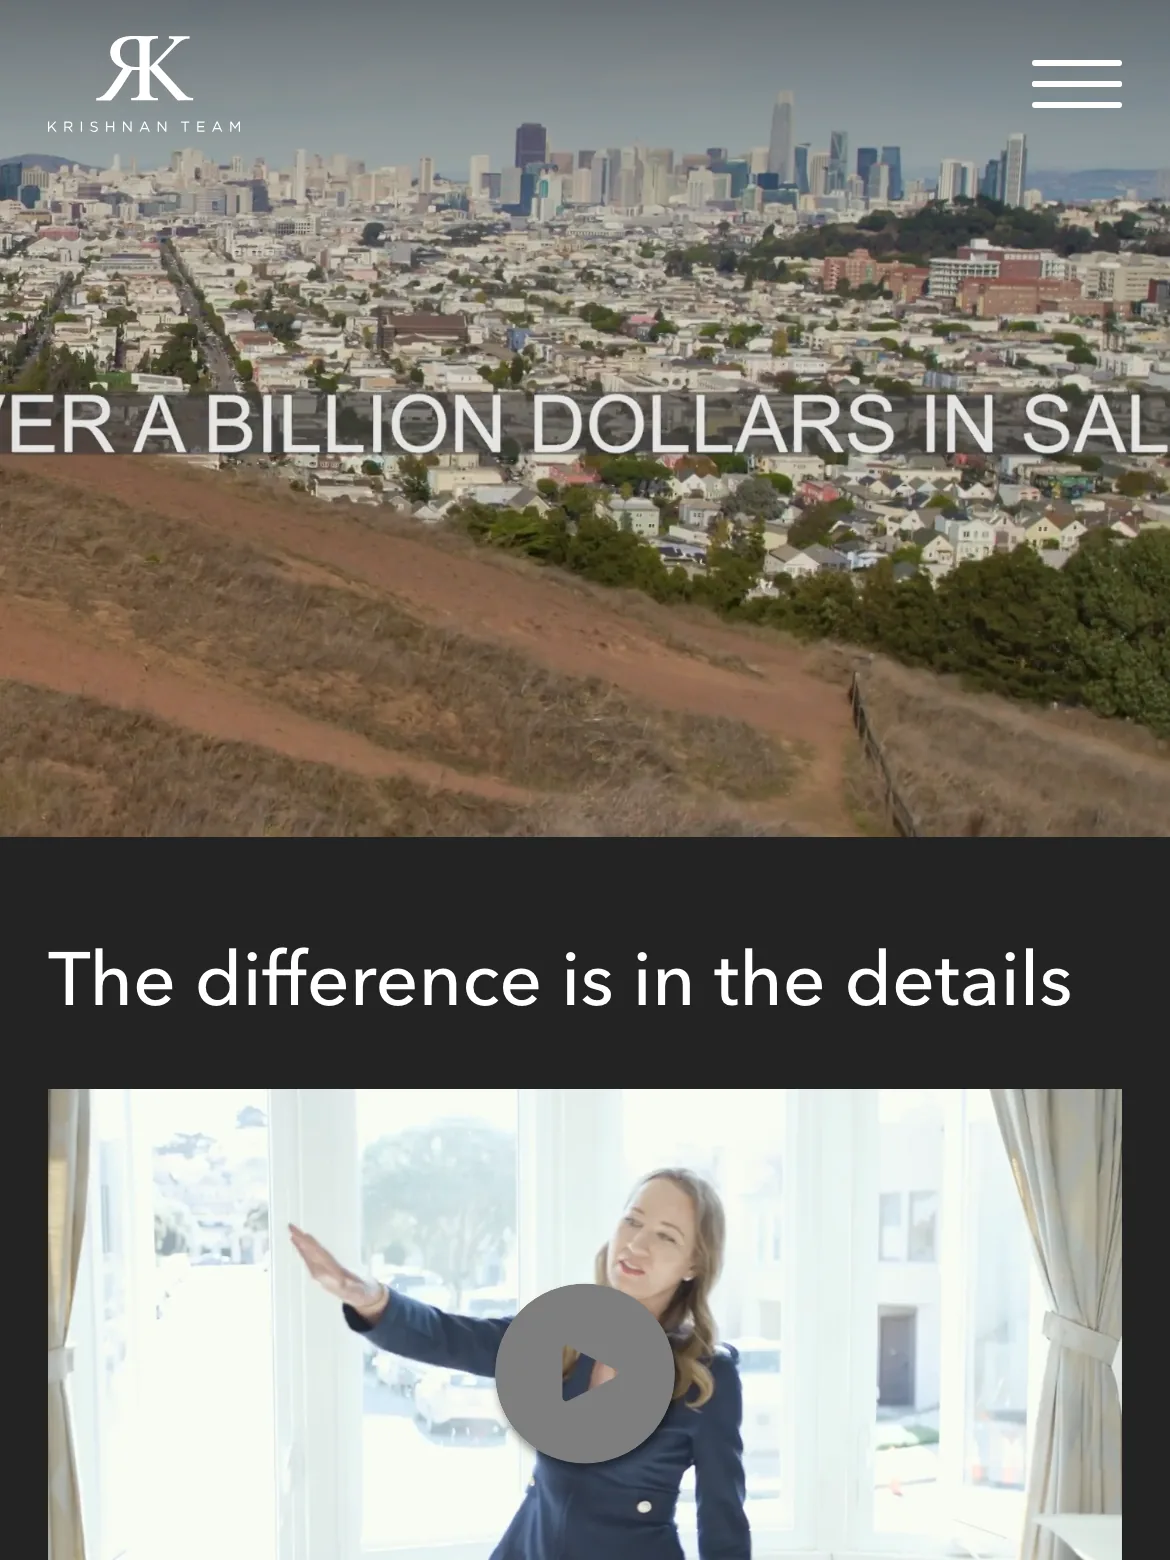
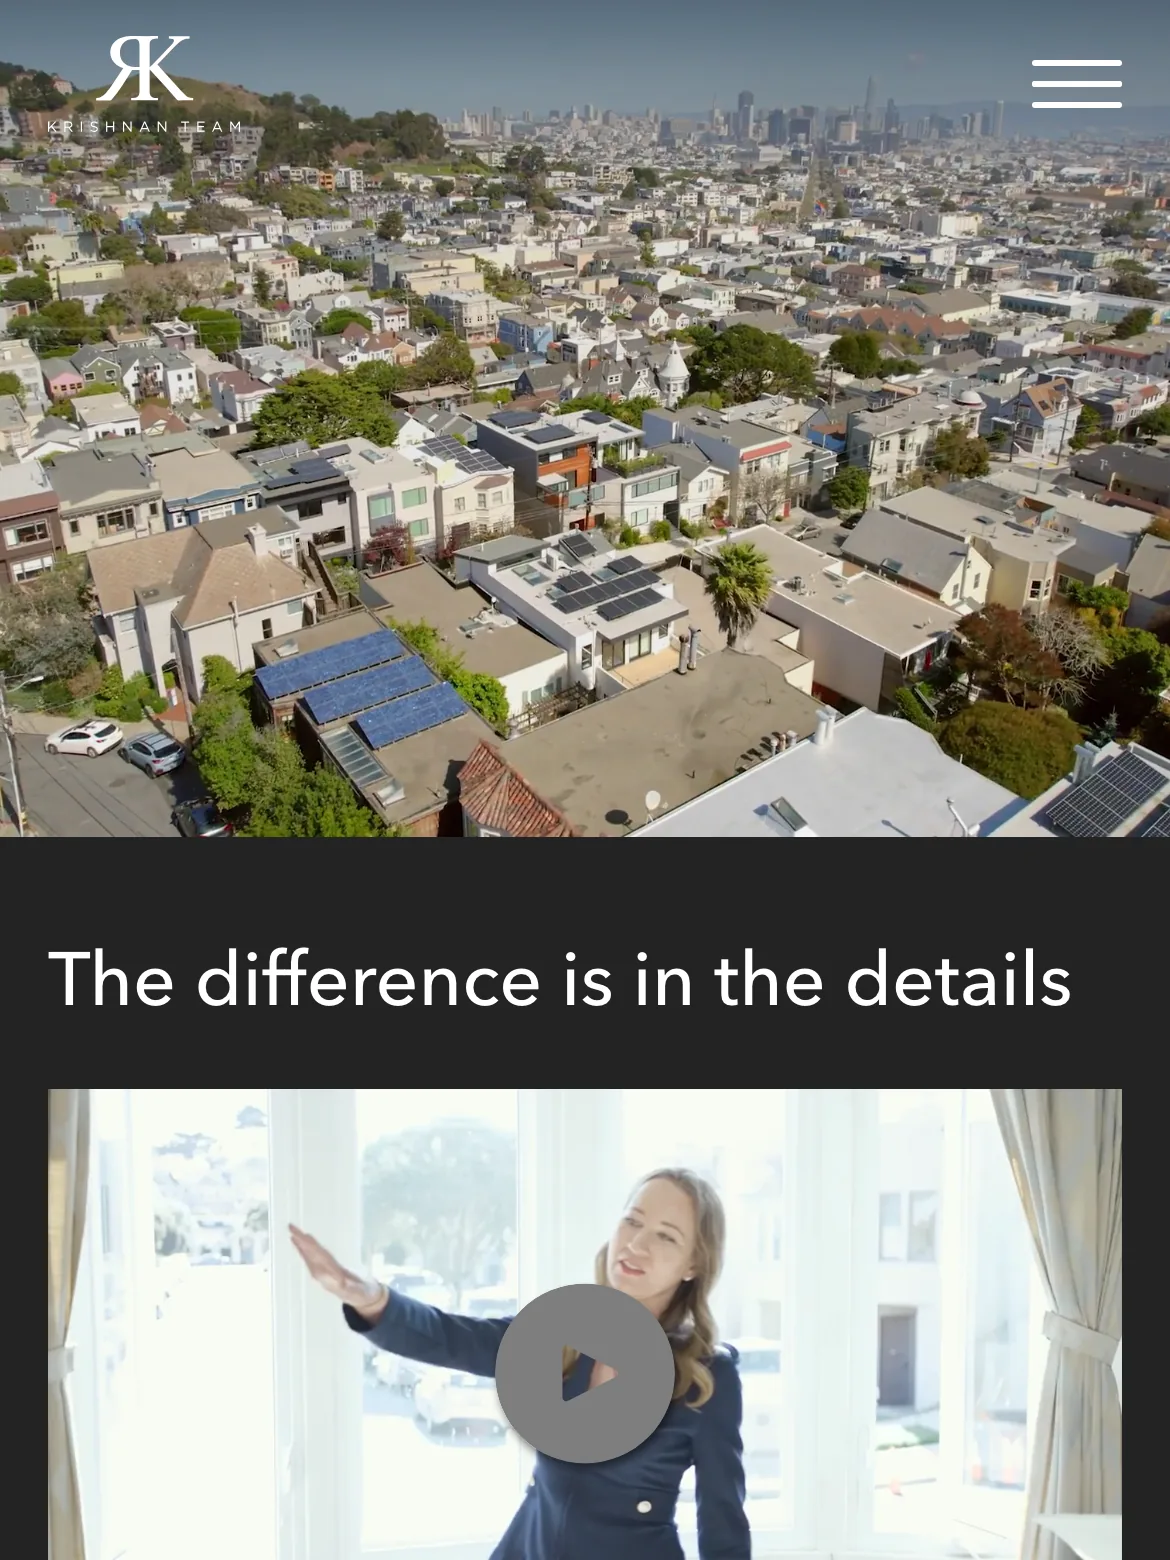
Fix ruthkrishnan capture; record video-hero gotchas in spec
The first capture caught the site's 88s background-video hero mid-way
through an oversized overlay the site clips at both edges, which read
as a broken screenshot. Replaced with a clean frame selected from six
candidates.

Records two findings: pausing a background video makes Chromium draw
native controls over the hero, and only consent banners are ever
hidden for capture -- never a site's own content.

Claude-Session: https://claude.ai/code/session_01KBKU5UZRrbw8YnrSuYRsB3

diff --git a/docs/superpowers/specs/2026-08-25-private-realtor-roadmap-design.md b/docs/superpowers/specs/2026-08-25-private-realtor-roadmap-design.md
@@ -242,15 +242,31 @@ All four sites were loaded and captured before this spec was finalised, so §4,
   consent was given on anyone's behalf.
 - Both Luxury Presence sites carry third-party accessibility overlay widgets and
   floating call/email buttons.
+- **`ruthkrishnan.com` opens on an 88-second background video**, not a static
+  hero, with an oversized "OVER A BILLION DOLLARS IN SALES" overlay that the
+  site itself clips at both edges. Naive capture catches the overlay mid-clip and
+  reads as a broken screenshot. Its hero section is also only 279 CSS px tall, so
+  the 520 px crop legitimately includes the section beneath it — that is what the
+  page looks like on a phone and is kept.
 
 ### Capture method
 
 Local Playwright (already a devDependency), Chromium, viewport 390x844 at
 `deviceScaleFactor: 3`, mobile UA. Wait for `document.fonts.ready` plus a settle
 delay, hide consent banners by CSS, screenshot, crop to the top 520 CSS px hero
-band, encode WebP q82. Result: 1170x1560 each, 315 KB for all four. The capture
+band, encode WebP q82. Result: 1170x1560 each, ~384 KB for all four. The capture
 script was throwaway and is not committed; this paragraph is the reproduction
 recipe if a site redesigns.
+
+Two things that cost time and are worth not rediscovering:
+
+- **Do not pause a background video to get a deterministic frame.** Pausing makes
+  Chromium render native video controls over the hero, which is worse than the
+  problem being solved. Let it play and capture several candidate frames instead.
+- **Only consent banners get hidden, never site content.** Hiding a cookie banner
+  removes a browser-level interruption; hiding a site's own headline would
+  misrepresent their design. `ruthkrishnan.com` was solved by frame selection,
+  not by hiding its overlay.
 
 ## Risks
 
